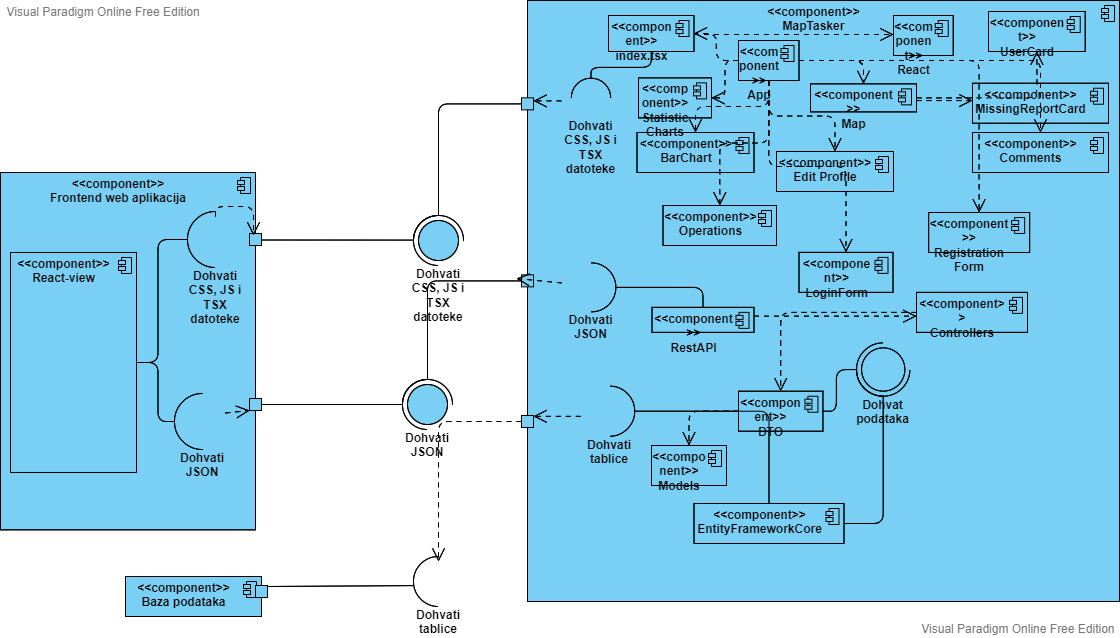
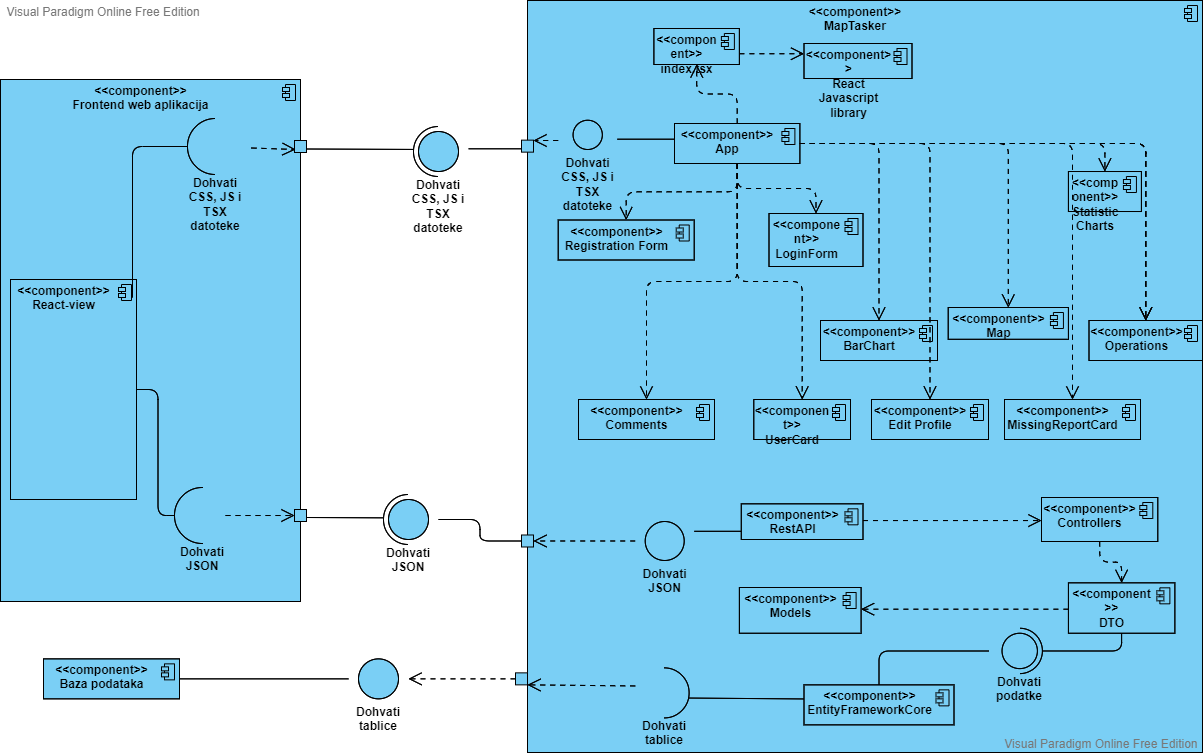
Ispravljen dijagram komponenti

diff --git a/dokumentacija/Arhitektura.tex b/dokumentacija/Arhitektura.tex
@@ -318,7 +318,7 @@
 		\section{Dijagram komponenti}
 		
 			\par
-			Ovaj dijagram pokazuje organizaciju i međuodnos komponenti, unutarnje strukture te odnos prema okolini. Postoje 3 vrste sučelja: za dohvat CSS, JS i TSX datoteka, za dohvat JSON podataka kojim se pristupa REST API komponenti te za dohvat tablica iz baze podataka. Podaci koji pristignu iz baze podataka šalju se u obliku DTO-a MVC arhitekturi na daljnju manipulaciju.
+			Ovaj dijagram pokazuje organizaciju i međuodnos komponenti, unutarnje strukture te odnos prema okolini. Postoje 3 vrste sučelja: za dohvat CSS, JS i TSX datoteka, za dohvat JSON podataka kojim se pristupa REST API komponenti te za dohvat tablica iz baze podataka. Preko glavne komponente App pristupa se ostalim komponentama. Preko drugog sučelja za dohvat JSON-a pristupa se Rest API-ju koji zatim poslužuje podatke koji pripadaju \textit{backend} dijelu aplikacije. Tablice se iz baze podataka dohvaćaju preko sučelja za dohvat podataka iz baze te se šalju u obliku DTO-a MVC arhitekturi na daljnju manipulaciju.
 			
 			\begin{figure}[H] \includegraphics[width=\linewidth]{./dijagrami/ComponentDiagram.vpd.png}
 				\caption{Dijagram komponenti}
